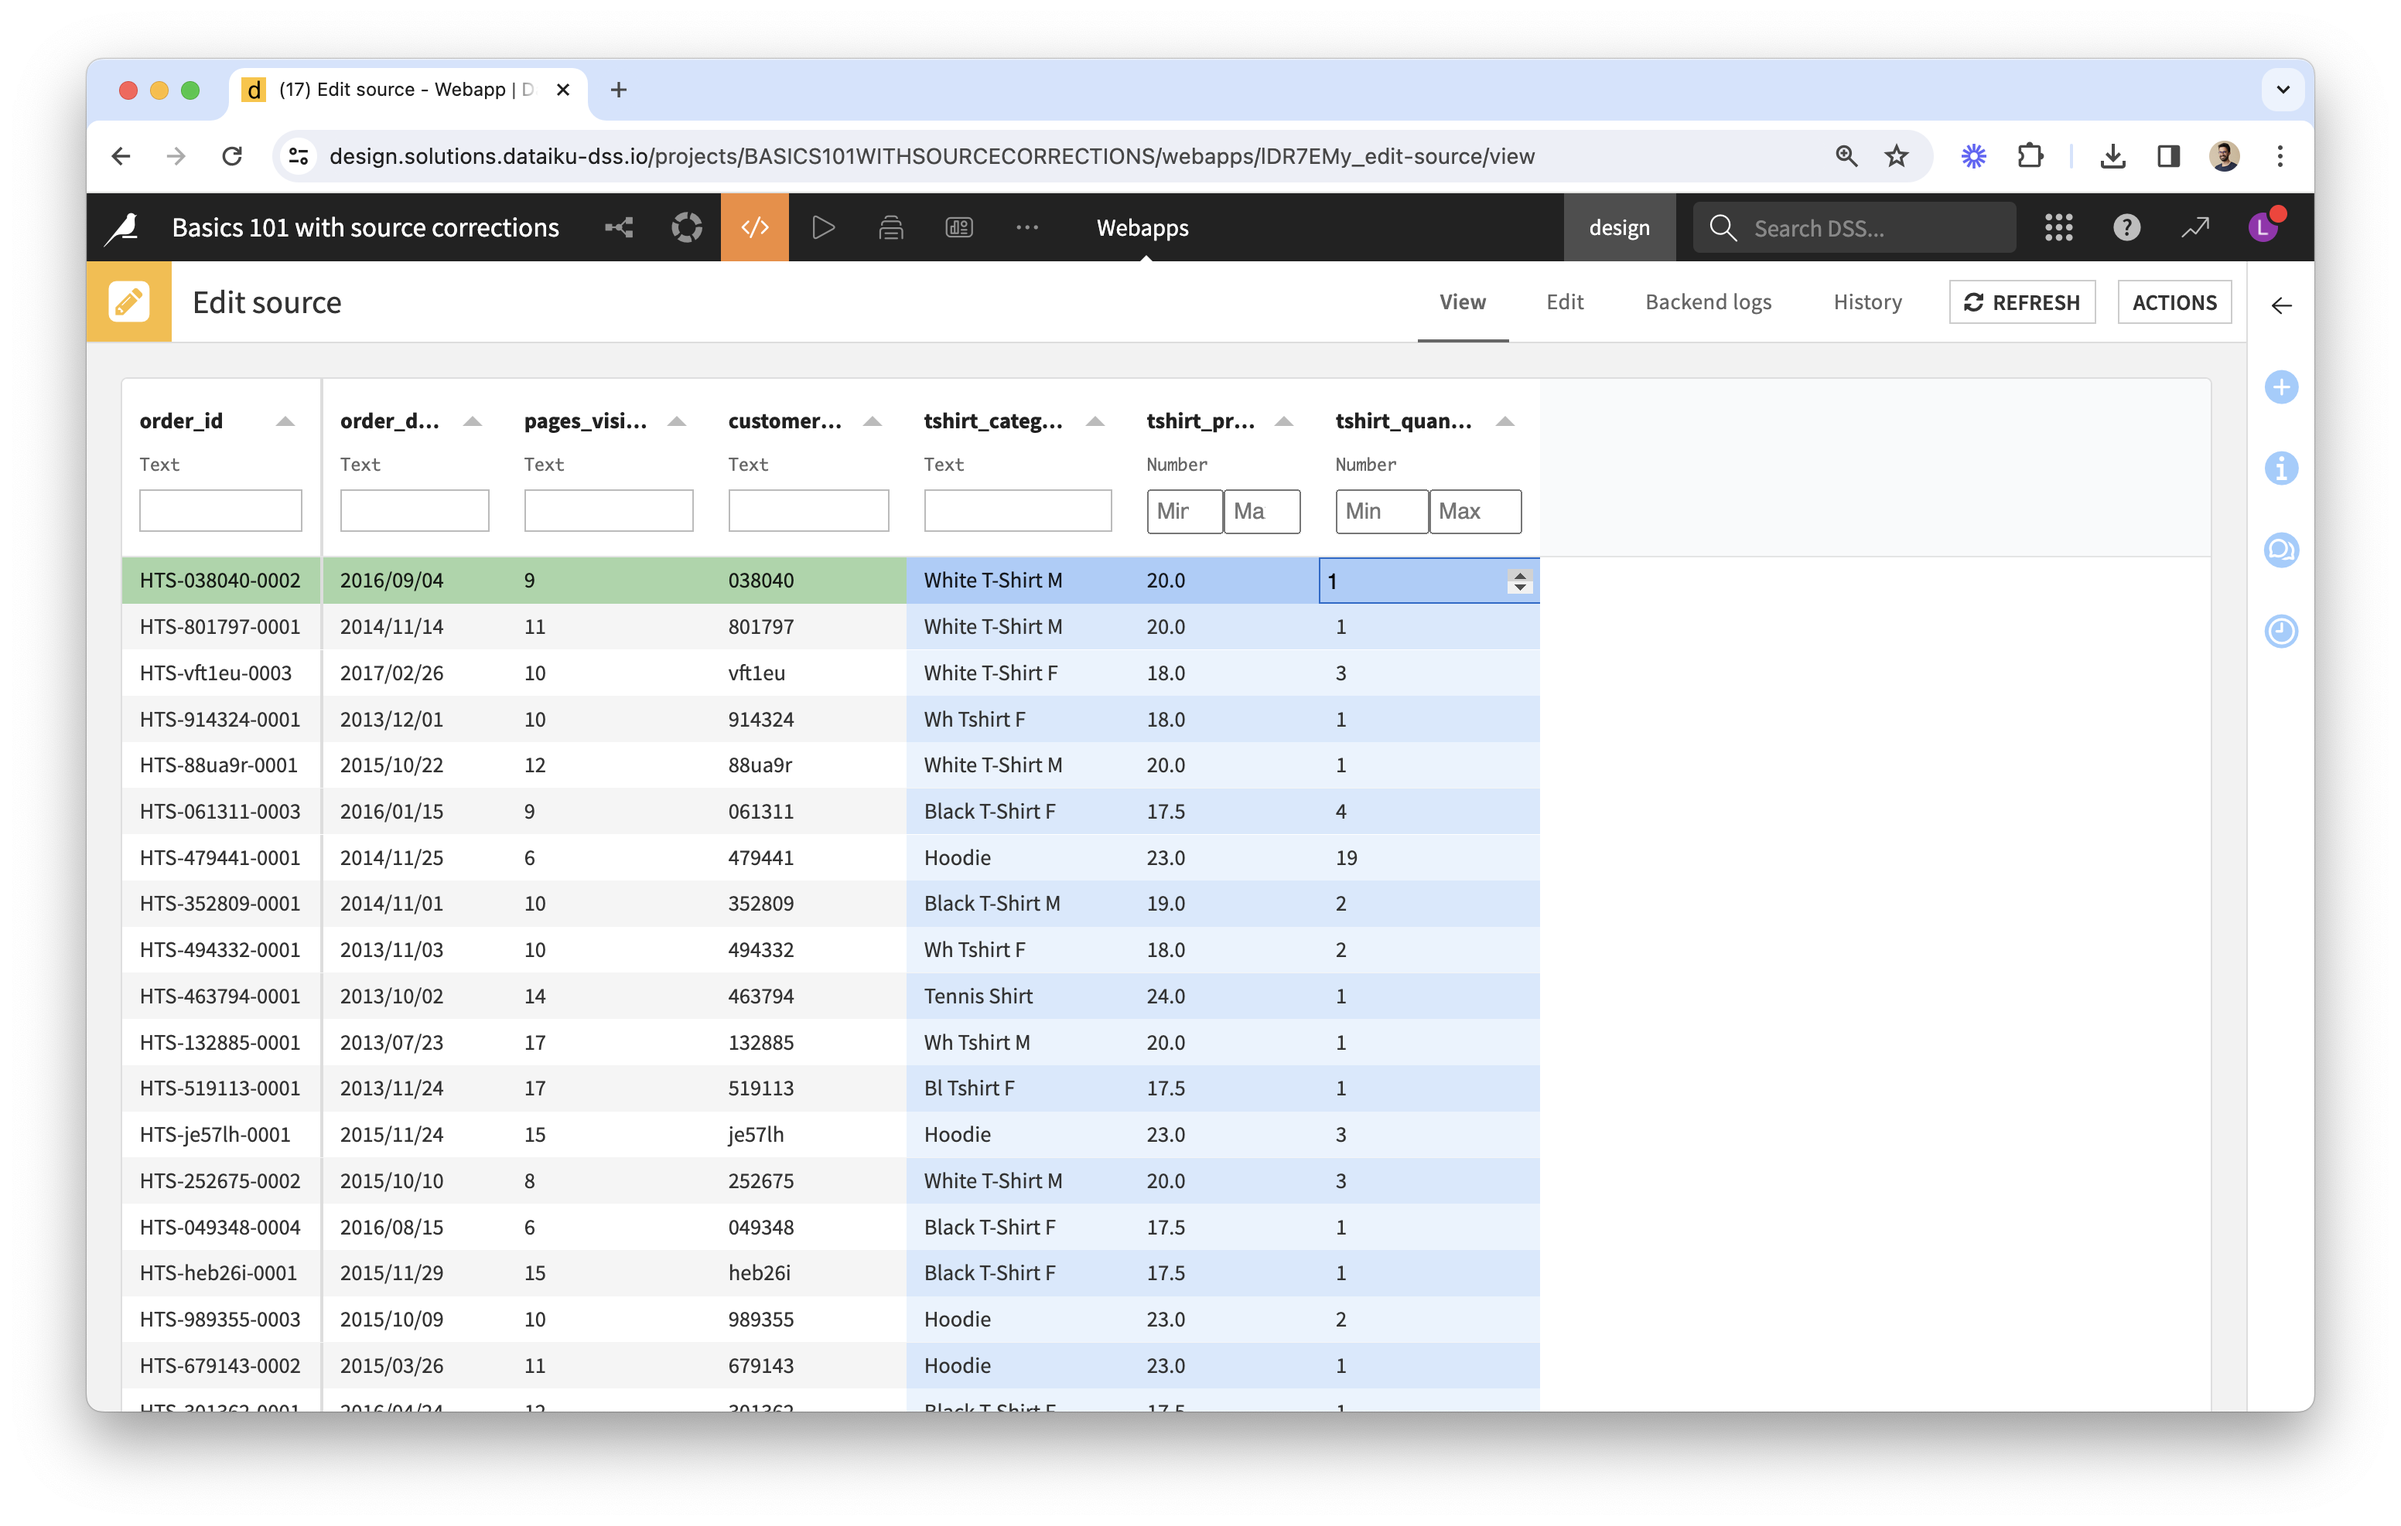
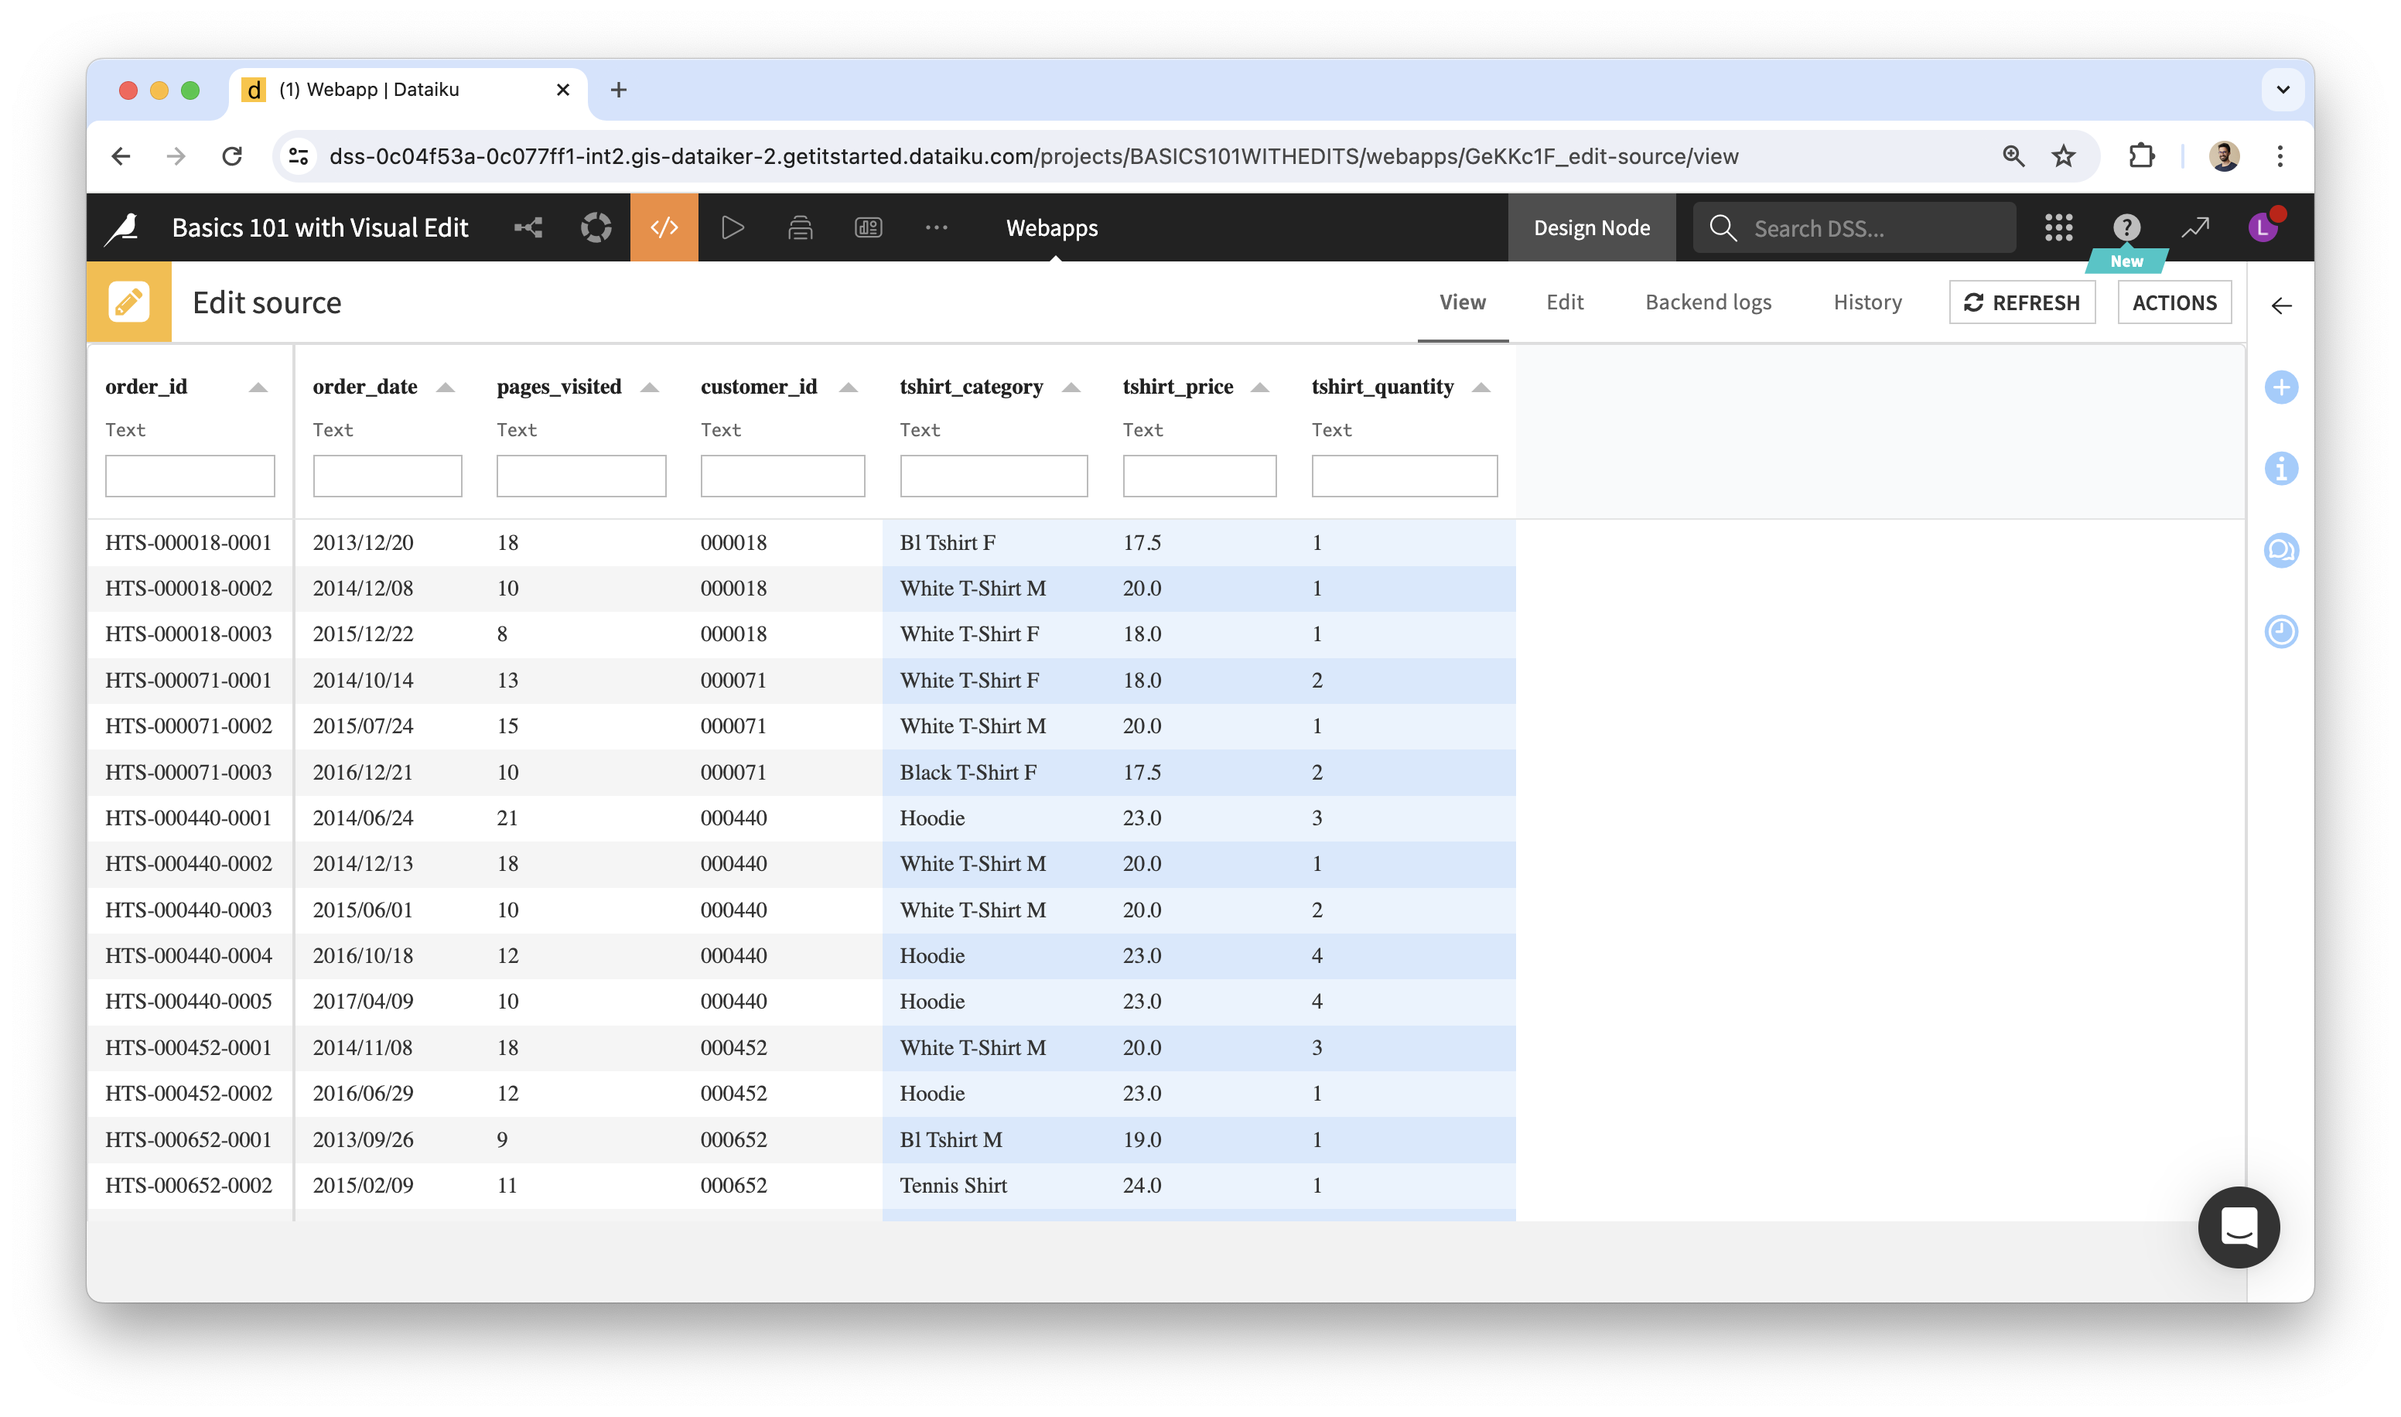
Improve get started guide

Changed region(s): [[0.0312, 0.0311, 0.9688, 0.9334], [0.9375, 0.2489, 0.9688, 0.4667], [0.375, 0.2489, 0.4375, 0.3111]]

diff --git a/docs/get-started.md b/docs/get-started.md
@@ -1,5 +1,12 @@
 # Correcting Source Data | Plugin: Visual Edit | Dataiku
 
+This guide is structured as follows:
+
+* Use case description
+* Preliminary steps
+* Create a Visual Edit webapp
+* Use edits in the Flow
+
 ## Use case description
 
 There are two main types of use cases for the plugin's Visual Webapp:
@@ -9,31 +16,24 @@ There are two main types of use cases for the plugin's Visual Webapp:
 
 In this guide, we focus on the former. The latter is slightly more complex and will be covered in a separate guide.
 
-Here, we want business users (aka end-users) to edit data based on their domain expertise, and we want to use the edited data for better downstream analytics and reporting. Instead of doing this in Excel, we want end-users to access a web interface. Therefore we need a front-end for them to see and enter data, and we need to "connect" the data entered via the web front-end with the analytics pipeline. This guide is structured as follows:
-
-* Preliminary steps
-* Create a Visual Edit webapp
-* Start the webapp
-* Test the webapp
-* Use edits in the Flow
+Here, we want business users (aka end-users) to edit data based on their domain expertise, and we want to use the edited data for better downstream analytics and reporting. Instead of doing this in Excel, we want end-users to access a web interface. Therefore we need a front-end for them to see and enter data, and we need to "connect" the data entered via the web front-end with the analytics pipeline. 
 
 ## Preliminary steps
 
-* [Install the plugin](install-plugin), if not already available.
-* Create a new project and add a dataset (via an existing Connection, or file upload). The screen captures shown in this guide were taken on a new project where we uploaded the [orders CSV file](https://downloads.dataiku.com/public/website-additional-assets/data/orders.csv) found in the [Basics 101 course](https://academy.dataiku.com/path/core-designer/basics-101) of the Dataiku Academy. You could also apply the following to an existing project and dataset, which may appear as an input dataset or as the result of an existing recipe.
-* Review the dataset schema. The plugin's Visual Webapp uses it to display, sort, filter data and enable editing in the most appropriate way. When a column meaning was defined explicitly, the webapp will use it; otherwise it will consider the storage type instead.
+* [ ] [Install the plugin](install-plugin), if not already available.
+* [ ] Create a new project and add a dataset (via an existing Connection, or file upload). The screen captures shown in this guide were taken on a new project where we uploaded the [orders CSV file](https://downloads.dataiku.com/public/website-additional-assets/data/orders.csv) found in the [Basics 101 course](https://academy.dataiku.com/path/core-designer/basics-101) of the Dataiku Academy. You could also apply the following to an existing project and dataset, which may appear as an input dataset or as the result of an existing recipe. ![](orders_dataset.png)
+* [ ] Review the dataset schema. The plugin's Visual Webapp uses it to display, sort, filter data and enable editing in the most appropriate way. When a column meaning was defined explicitly, the webapp will use it; otherwise it will consider the storage type instead.
   * Use a “Boolean” meaning to show boolean values as ticks and crosses and to enable editing with checkboxes; filtering will be text-based;
   * Use a numerical meaning to restrict editing to numbers only, to enable sorting by numerical order, and filtering with min-max values;
   * Use a “Date” meaning to enable sorting by chronological order, editing and filtering with date pickers
   * Use a “Text” meaning for both free-text input and for dropdowns (this will be specified in the Visual Webapp's settings), text-based filtering, and sorting by alphabetical order.
 
-
 ## Create a Visual Edit webapp
 
-* Go to Webapps, create New Visual Webapp, pick Visual Edit (this component is provided by the plugin).
+* [ ] Go to Webapps, create New Visual Webapp, pick Visual Edit (this component is provided by the plugin).
   * ![](new_visual_webapp.png)
   * ![](new_visual_webapp_2.png)
-* Settings:
+* [ ] Settings:
   * _Data_:
     * Select a dataset, list primary keys and editable columns (note that a column can't be both). ![](visual_edit_webapp_params_orders.png)
     * Double check the selection of primary keys and editable columns: ground-truth values of editable columns should be fixed for a given (set of) primary key(s) value(s).
@@ -41,11 +41,23 @@ Here, we want business users (aka end-users) to edit data based on their domain 
   * _Layout_: here you can choose to freeze editable columns to the right-hand side (which is useful when there are many columns), and to group rows by one or more columns.
   * Advanced settings can be provided via the ["editschema" in JSON](editschema).
 
-## Start the webapp
-
-Here is an example of what a Visual Edit webapp would look like:
+The webapp should look like this:
 
 ![](webapp_orders.png)
+
+Note that tshirt price and quantities are not seen as numerical columns: column types are shown as "Text" in the webapp (see below column names) and as a result we can input any type of data in them. This is expected, because all storage types were "string" and no column meanings were set explicitly.
+
+### Fix column types
+
+* [ ] Let's set the column meanings for tshirt price and quantities as Decimal and Integer. ![](orders_dataset_column_meanings.png)
+* [ ] Restart the webapp. It will now consider these columns as numerical. The webapp should look like this:
+![](webapp_orders_fixed_types.png)
+
+### Test the webapp
+
+* [ ] Test the webapp with a few edits. Here, you should only be able to input numerical values when editing cells. See all end-user features of the webapp's data table [here](data-table-features).
+
+### Locate edits in the Flow
 
 3 datasets are created upon starting the webapp (if they don't already exist): ![](new_datasets.png)
 Their names start with the original dataset's name. Let's review them by their suffix:
@@ -64,13 +76,15 @@ Their names start with the original dataset's name. Let's review them by their s
   * It contains the same number of rows as in the original dataset. For any given cell identified by its column and primary key values, if a non-empty value is found in _edits_, this value is used instead of the original one.
   * Note that, as a result of the above, it is impossible to empty a non-empty cell with the plugin’s Visual Webapp and recipes. This is because empty values in _edits_ are ignored.
 
-The datasets are created on the same connection as the original dataset. If not already the case, we recommend using a SQL connection for fast and reliable edits. For edits to be recorded by the webapp, this has to be a write connection. If that's not the case, you can change the connection of these datasets as soon as they've been added to the Flow.
+#### Datasets' Connection
 
-Settings such as primary keys and editable columns are copied into the _Visual Edit_ fields of the original and the _editlog_ datasets ([custom fields provided by the plugin](https://doc.dataiku.com/dss/latest/plugins/reference/custom-fields.html) — see the bottom right corner of the screenshot above). This is how the recipes have access to settings defined in the webapp.
+The datasets are created on the same connection as the original dataset. If not already the case, **we recommend using a SQL connection** for fast and reliable edits. For edits to be recorded by the webapp, this has to be a write connection. If that's not the case, you can change the connection of these datasets as soon as they've been added to the Flow.
 
-## Test the webapp on your own
+#### Relationship between what you see in the webapp and in the Flow
 
-You may want to test the webapp with a few edits, then check the _editlog_ dataset to see the recorded changes. See all end-user features of the webapp's data table [here](data-table-features).
+* Edits made via the webapp instantly add rows to the _editlog_. The _edits_ and _edited_ datasets are updated only when you run the corresponding recipes.
+* When opening the webapp in your browser, the same code as in the recipes is executed, from the original dataset and the editlog, in order to present an edited view of the data.
+* Settings such as primary keys and editable columns are copied into the _Visual Edit_ fields of the original and the _editlog_ datasets ([custom fields provided by the plugin](https://doc.dataiku.com/dss/latest/plugins/reference/custom-fields.html) — see the bottom right corner of the screenshot above). This is how the recipes have access to settings defined in the webapp.
 
 ### How to reset edits
 
@@ -79,12 +93,6 @@ Only use this on a design node, if needed for your tests.
 Create and run a _reset edits_ scenario with an "Initialize editlog" Step. This type of scenario step is provided by the plugin and can be found toward the end of the list of available steps.
 
 ![](scenario_initialize_editlog.png)
-
-### Behind the scenes
-
-When opening the webapp in your browser, the same code as in the recipes is executed, from the original dataset and the editlog, in order to present an edited view of the data.
-
-Edits made via the webapp instantly add rows to the _editlog_. The _edits_ and _edited_ datasets are updated only when you run the corresponding recipes.
 
 ## Use edits in the Flow
 
